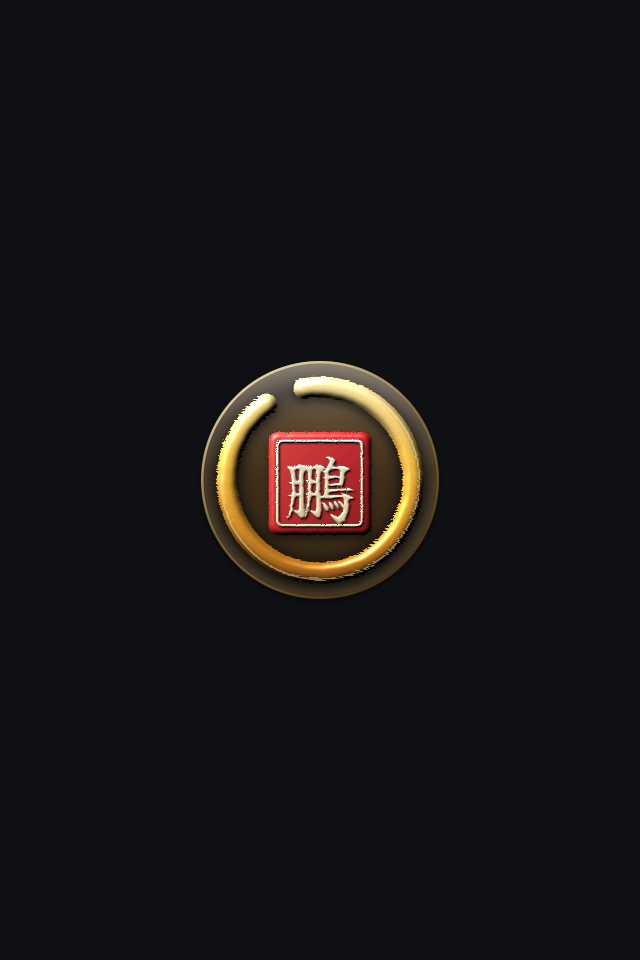
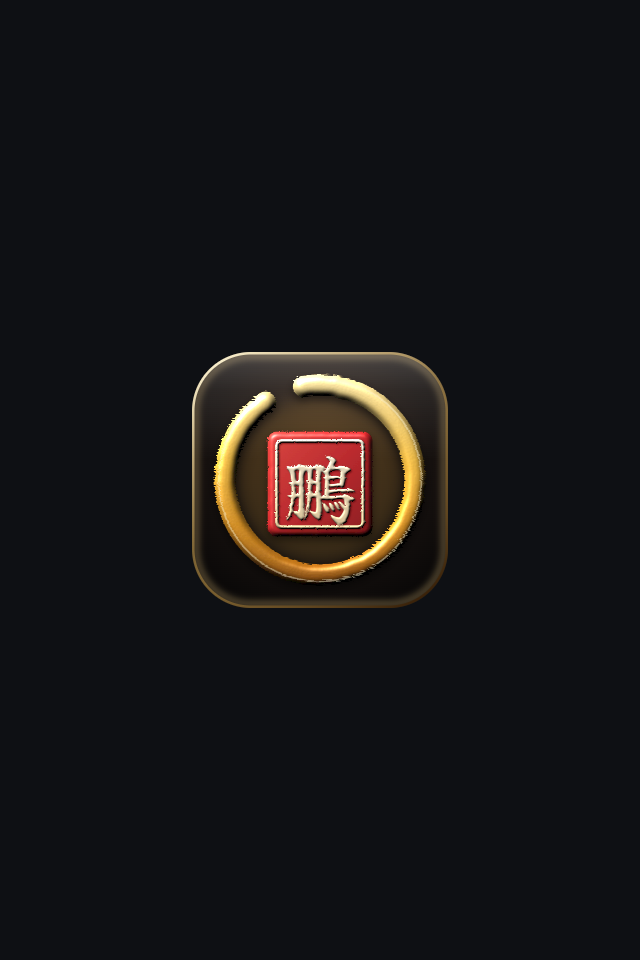
Biểu tượng mới: ô kính vuông bo tròn 4 góc (phương án D), giữ chất kính trong suốt, vòng ensō vàng + ấn 鵬
Góc bo 23% cạnh — tròn hơn mặt nạ biểu tượng của iOS 6 và iOS 7 / 8, mặt nạ của máy không cắt viền sáng. iOS 6 hiện kính trong
(thấy hình nền phía sau); iOS 8 lót đen phần trong suốt → kính khói tối. Ảnh khởi động Default*.png xuất lại theo dấu hình mới.

Changed region(s): [[0.2812, 0.3438, 0.7188, 0.6562]]

diff --git a/design/icon.html b/design/icon.html
@@ -1,12 +1,12 @@
 <!doctype html>
 <!--
-  Logo / biểu tượng Côn Bằng TV Legacy — bản 3D, nền tròn trong suốt.
+  Logo / biểu tượng Côn Bằng TV Legacy — bản 3D, nền kính trong suốt (vuông bo tròn).
   Dựng từ logo gốc của Côn Bằng TV (repo chính, design/logo.html — phương án «Ấn triện»): vòng bút ensō vàng + ấn đỏ chữ 鵬.
   Xuất PNG: node design/render.mjs <mode> [phương án] (xem đầu render.mjs).
   ?mode=variants          : mọi phương án, cỡ 1024 / 114 / 57 (để xem trước)
   ?mode=ios&v=a           : bộ Icon*.png + Default*.png cho app/Resources
   ?mode=web&v=a           : logo cho trang giới thiệu (assets/logo.png) + nguồn Cydia (repo/CydiaIcon.png)
-  Đã chọn phương án A (15/11/2026); B, C giữ lại để so.
+  Đã chọn phương án D — ô kính vuông bo tròn (18/11/2026; trước đó A — đĩa kính tròn, 15/11); A, B, C giữ lại để so.
 -->
 <html>
 <head>
@@ -167,6 +167,21 @@ function glassTile() {
   <rect x="3" y="3" width="506" height="506" rx="${rx - 3}" fill="none" stroke="url(#rim)" stroke-width="6"/>`;
 }
 
+// Ô kính vuông bo tròn 4 góc, cùng chất kính với đĩa tròn (phương án A): kính tối trong suốt, ánh sáng mép trong, vệt bóng phía
+// trên, viền sáng. Góc bo 23% cạnh — tròn hơn mặt nạ biểu tượng của iOS 6 (~17,5%) và iOS 7 / 8 (~22,4%), để mặt nạ của máy không
+// cắt mất viền sáng ở góc.
+function glassRounded() {
+  const rx = 118;
+  return `
+  <defs><clipPath id="roundClip"><rect width="512" height="512" rx="${rx}"/></clipPath></defs>
+  <rect width="512" height="512" rx="${rx}" fill="url(#glass)"/>
+  <g clip-path="url(#roundClip)">
+    <rect x="8" y="8" width="496" height="496" rx="${rx - 8}" fill="none" stroke="#ffd98a" stroke-opacity=".26" stroke-width="16" filter="url(#blur6)"/>
+    <ellipse cx="${C}" cy="96" rx="360" ry="200" fill="url(#gloss)"/>
+  </g>
+  <rect x="2.5" y="2.5" width="507" height="507" rx="${rx - 2.5}" fill="none" stroke="url(#rim)" stroke-width="5"/>`;
+}
+
 // ---------- phương án ----------
 const variants = {
   a: { name: 'Đĩa kính tròn', note: 'Nền đen thành đĩa kính tròn trong suốt, viền sáng, vòng vàng và ấn nổi khối',
@@ -180,6 +195,10 @@ const variants = {
        body: () => `${glassTile()}
          <circle cx="${C}" cy="${C}" r="160" fill="#f0b443" opacity=".16" filter="url(#glow)"/>
          ${enso(182, 42)}${seal(262, 200)}` },
+  d: { name: 'Ô kính vuông bo tròn', note: 'Nền vuông bo tròn 4 góc, cùng chất kính trong suốt với đĩa tròn A (18/11/2026)',
+       body: () => `${glassRounded()}
+         <circle cx="${C}" cy="${C}" r="165" fill="#f0b443" opacity=".16" filter="url(#glow)"/>
+         ${enso(190, 43)}${seal(264, 210)}` },
 };
 
 function iconSvg(v, px) {
